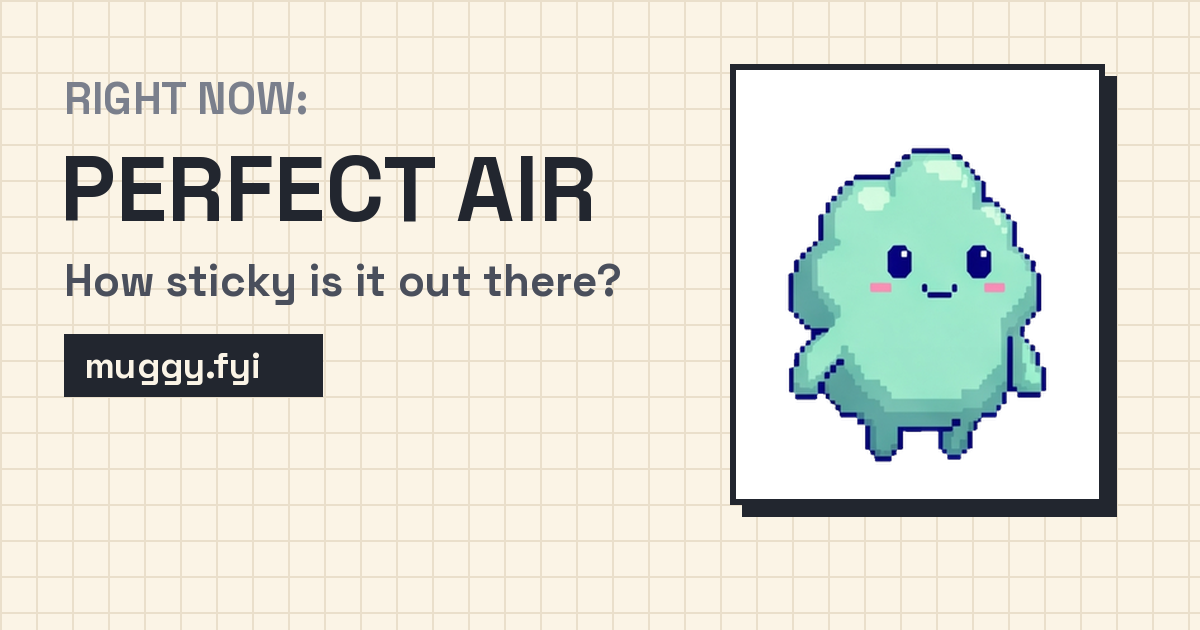
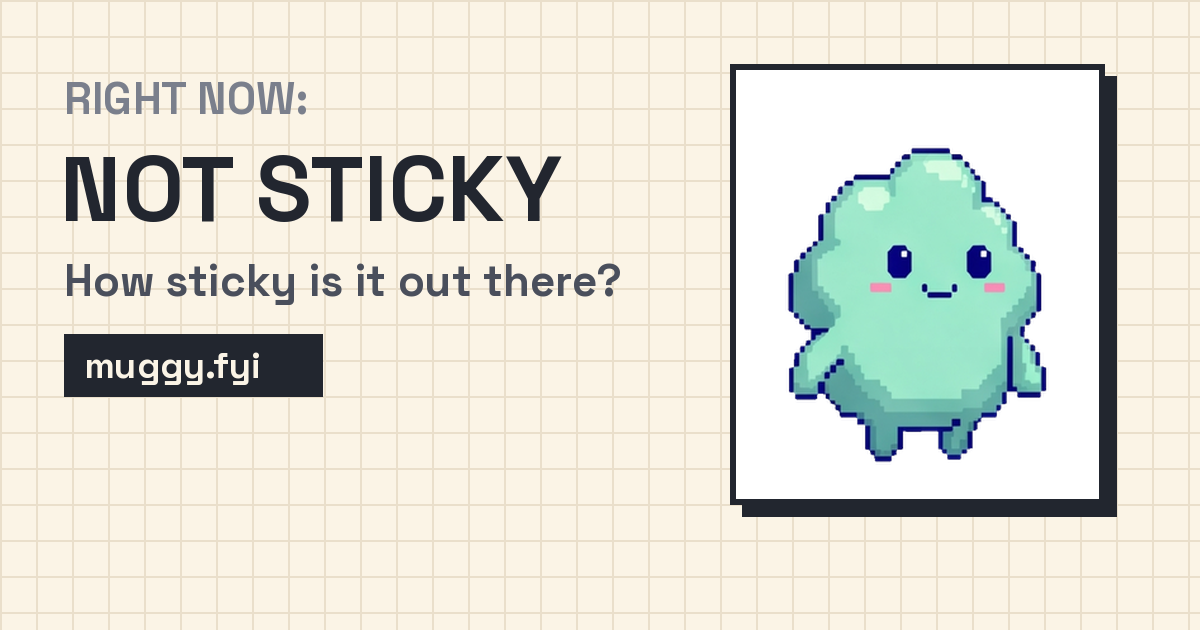
The air word agrees with the headline, in fog and in heat
The Air tile and the chip on the cloud said "dry" under "Cold and damp",
because cold air always falls in the dry dew point band. They now name
the air in words that agree with the headline: "damp" in fog, "not
sticky" for comfortable air under real heat. Colour, character and the
timelines still follow the band, and the Why sheet explains the band.

The normals card hides in fog, where a stickiness comparison says
nothing and could only name the dry band.

The dry and comfortable link banners printed "CRISP AND DRY" and
"PERFECT AIR" in every weather, including fog, desert heat and Dubai at
40 degrees. Both now read "NOT STICKY", which is true in all of them.

Changed region(s): [[0.0617, 0.2413, 0.4933, 0.3619]]

diff --git a/public/app.js b/public/app.js
@@ -3,7 +3,7 @@ import { interpolateNow } from './lib/interp.js';
 import { textureOf, TEXTURE_RANK } from './lib/texture.js';
 import { loadAt, loadSeries, readingNow, intervalInputs, isSunUp } from './lib/load.js';
 import { levelOf, alertMark, createHysteresis, roundHalfUp, LEVELS, LEVEL_MIN } from './lib/levels.js';
-import { compose, textureSentence, isDampCool } from './lib/verdict.js';
+import { compose, textureSentence, isDampCool, airWord } from './lib/verdict.js';
 import { attribute, peakAndTrend, factorSummary, REFERENCE_WIND_MS } from './lib/explain.js';
 import { findRelief, describeRelief, forecastHours } from './lib/relief.js';
 import { describe as describeNormals, barSegments, hasHourLadders } from './lib/normals.js';
@@ -98,7 +98,6 @@ function render() {
   const texture = textureOf(cur.dew_point_2m);
   app.dataset.level = texture;
   app.dataset.state = 'ready';
-  els.levelName.textContent = texture;
   els.timeChip.textContent = `now · ${cur.time.slice(11, 16)}`;
 
   // The heat-load work (current reading, 7-day series, breakdown) is measured
@@ -138,8 +137,11 @@ function render() {
   els.whyBtn.hidden = !load;
   els.temp.textContent = fmtTemp(cur.temperature_2m);
   els.hum.textContent = cur.relative_humidity_2m == null ? '–' : `${Math.round(cur.relative_humidity_2m)}%`;
-  els.comfort.textContent = texture;
-  els.comfort.classList.toggle('long', texture.length > 8);
+  // The chip and the tile name the air in words that agree with the headline.
+  const word = airWord(texture, verdict.worst, air);
+  els.levelName.textContent = word;
+  els.comfort.textContent = word;
+  els.comfort.classList.toggle('long', word.length > 8);
 
   renderHours(cur, h);
   renderWeek(cur, h);
@@ -273,9 +275,11 @@ function renderRelief() {
 // ---------- is this normal? ----------
 function renderNormals() {
   if (!normals || !data) { els.normalCard.hidden = true; return; }
+  // A stickiness comparison says nothing when it is too cool to feel sticky,
+  // and in fog it could only name the dry band beside a damp headline.
   const n = now;
-  const feelsDamp = !!(n && isDampCool(n.texture, n.verdict.worst, n.air));
-  const d = describeNormals(normals, data.current.dew_point_2m, Number(data.current.time.slice(11, 13)), { feelsDamp });
+  if (n && isDampCool(n.texture, n.verdict.worst, n.air)) { els.normalCard.hidden = true; return; }
+  const d = describeNormals(normals, data.current.dew_point_2m, Number(data.current.time.slice(11, 13)));
   if (!d) { els.normalCard.hidden = true; return; }
   els.normalVerdict.textContent = d.verdict;
   els.normalSub.textContent = d.sub;
@@ -304,6 +308,15 @@ async function loadNormals(place, superseded = () => false) {
 
 // ---------- why this verdict? ----------
 let whyOpener = null;
+
+/** Names the band, and says why the screen used a different word for it. */
+function bandNote(texture, worst, air) {
+  const word = airWord(texture, worst, air);
+  const band = `<strong>${esc(texture)}</strong>`;
+  if (word === 'damp') return `Muggy's band for it is still ${band}, because cool air holds little water even when it is close to saturated.`;
+  if (word !== texture) return `Muggy's band for it is ${band}. That describes the moisture only, and in this heat it just means sweat still dries.`;
+  return `Muggy calls this air ${band}.`;
+}
 const section = (title, body) => `<section><h3>${esc(title)}</h3>${body}</section>`;
 
 function openWhy(opener) {
@@ -313,9 +326,7 @@ function openWhy(opener) {
   const parts = [];
   parts.push(section('The verdict', `<p><strong>${esc(verdict.headline)}.</strong> ${esc(verdict.blurb)}</p>`));
   parts.push(section('The air', `<p>${esc(textureSentence(texture, isDay ? 'day' : 'night', verdict.worst, n.air))}</p>
-    <p class="small">${isDampCool(texture, verdict.worst, n.air)
-    ? `Muggy's band for it is still <strong>${esc(texture)}</strong>, because cool air holds little water even when it is close to saturated.`
-    : `Muggy calls this air <strong>${esc(texture)}</strong>.`} That comes from the dew point, which is how much water the air already holds. It decides how well sweat can dry.</p>`));
+    <p class="small">${bandNote(texture, verdict.worst, n.air)} That comes from the dew point, which is how much water the air already holds. It decides how well sweat can dry.</p>`));
 
   if (load && verdict.worst) {
     if (verdict.worst !== 'none') {

diff --git a/public/lib/normals.js b/public/lib/normals.js
@@ -49,12 +49,10 @@ export const VERDICTS = [
 ];
 
 /**
- * describe(normals, dewPointC, localHour, { feelsDamp }) →
+ * describe(normals, dewPointC, localHour) →
  * { pct, verdict, sub, note, mix, band, usualBand } or null when normals are unusable.
- * feelsDamp: the headline calls cool, near-saturated air damp; a low dew point
- * then needs saying in words, or "drier than usual" reads as a contradiction.
  */
-export function describe(normals, dewPointC, localHour, { feelsDamp = false } = {}) {
+export function describe(normals, dewPointC, localHour) {
   if (!hasHourLadders(normals) || dewPointC == null) return null;
   const hour = normals.hours[localHour];
   const pct = percentileOf(hour.q, dewPointC);
@@ -77,9 +75,7 @@ export function describe(normals, dewPointC, localHour, { feelsDamp = false } = 
   const share = hour.mix[band] || 0;
   const likeThis = `Air this ${pct >= 50 ? (sticky ? 'sticky' : 'damp') : 'dry'}`;
   let note;
-  // Only when the verdict itself says drier; "About normal" needs no excuse.
-  if (feelsDamp && pct <= 30) note = 'The air holds less water than usual, even though it feels damp.';
-  else if (!record && share === 0) note = `${likeThis} has not been recorded here at this time of year.`;
+  if (!record && share === 0) note = `${likeThis} has not been recorded here at this time of year.`;
   else if (!record && share < 0.05) note = `${likeThis} is rare here at this time of year.`;
   else if (band !== usualBand) note = `Usually it is ${usualBand} at this time of day.`;
   else if (pct >= 65) note = `Still the usual ${band} air, at the ${wetter} end of it.`;

diff --git a/test/verdict.test.js b/test/verdict.test.js
@@ -1,7 +1,7 @@
 // Composition scenarios from the comfort-verdict spec.
 import { test } from 'node:test';
 import assert from 'node:assert/strict';
-import { compose, textureSentence } from '../public/lib/verdict.js';
+import { compose, textureSentence, airWord } from '../public/lib/verdict.js';
 import { classesIn } from '../public/lib/lexicon.js';
 
 const day = { isDay: true, sunKnown: true };
@@ -147,4 +147,20 @@ test('the headline and the air sentence always agree, with or without a load', (
       assert.match(v.blurb, /damp/i);
     }
   }
+});
+
+test('the air word never contradicts the headline', () => {
+  // Fog: the band is dry, the air is damp.
+  assert.equal(airWord('dry', 'none', { t: 6, rh: 95 }), 'damp');
+  assert.equal(airWord('comfortable', 'none', { t: 15, rh: 88 }), 'damp');
+  // Crisp cold air keeps its band name.
+  assert.equal(airWord('dry', 'none', { t: 6, rh: 60 }), 'dry');
+  // Nothing is comfortable in real heat.
+  for (const level of ['noticeable', 'realWork', 'hard', 'dangerous']) assert.equal(airWord('comfortable', level, { t: 38, rh: 20 }), 'not sticky');
+  assert.equal(airWord('comfortable', 'easy', { t: 24, rh: 60 }), 'comfortable');
+  // Hot dry air is still dry; sticky bands keep their names.
+  assert.equal(airWord('dry', 'hard', { t: 45, rh: 8 }), 'dry');
+  for (const band of ['humid', 'muggy', 'oppressive', 'miserable']) assert.equal(airWord(band, 'hard', { t: 32, rh: 70 }), band);
+  // No load, no temperature: the band.
+  assert.equal(airWord('comfortable', null, null), 'comfortable');
 });

diff --git a/public/about.html b/public/about.html
@@ -90,7 +90,7 @@
       <h2>The six air bands</h2>
       <p>Your body cools itself by sweating, and sweat only cools you if it can evaporate. The <strong>dew point</strong> measures how much water the air already carries. It is the temperature the air would have to cool to before that water starts condensing. The higher it is, the worse sweat works. Relative humidity can't tell you this on its own. Fog on a cold morning is 100% humidity, and nobody calls fog muggy.</p>
       <p>Muggy sorts the dew point into the bands <a href="https://weatherspark.com" rel="noopener">WeatherSpark</a> made familiar, converted from Fahrenheit. You see the band, never the number.</p>
-      <p>Sweat only matters once it's warm. Below 18° Muggy says whether the air feels damp or dry instead, because a foggy morning and a crisp one land in the same band. Cold air holds so little water that its dew point is always low.</p>
+      <p>Sweat only matters once it's warm. Below 18° Muggy says whether the air feels damp or dry instead, because a foggy morning and a crisp one land in the same band. Cold air holds so little water that its dew point is always low. So in fog the Air tile says damp, even though the band underneath is dry. In real heat, comfortable air shows as not sticky, since nothing is comfortable at 35°.</p>
       <div class="scroll">
         <table class="bands">
           <tr><th>Air</th><th>Dew point</th><th>What the moisture does</th></tr>

diff --git a/public/lib/verdict.js b/public/lib/verdict.js
@@ -26,6 +26,19 @@ export function isDampCool(texture, worst, air) {
 }
 
 /**
+ * The word the screen shows for the air: the band's name, unless that name
+ * would contradict the headline. Cool air near saturation is "damp", whatever
+ * its band. Comfortable air under a real heat load is "not sticky", because
+ * nothing is comfortable at 35 °C. The band itself, and everything drawn from
+ * it (colour, character, timelines), stays as it is.
+ */
+export function airWord(texture, worst, air = null) {
+  if (isDampCool(texture, worst, air)) return 'damp';
+  if (texture === 'comfortable' && worst != null && rank(worst) >= rank('noticeable')) return 'not sticky';
+  return texture;
+}
+
+/**
  * The texture sentence for this moment. Shared by the verdict and the Why
  * sheet, so the two can never describe the air differently.
  */

diff --git a/test/normals.test.js b/test/normals.test.js
@@ -68,11 +68,3 @@ test('bar segments are in band order', () => {
   assert.deepEqual(barSegments({ muggy: 0.3, comfortable: 0.7 }).map((s) => s.band), ['comfortable', 'muggy']);
 });
 
-test('cool air that feels damp but holds little water says both', () => {
-  const winter = { hours: Array.from({ length: 24 }, () => ({ q: Array.from({ length: 101 }, (_, i) => -5 + i * 0.15), mix: { dry: 1 }, n: 700 })) };
-  const d = describe(winter, -3, 22, { feelsDamp: true });
-  assert.equal(d.verdict, 'Drier than usual');
-  assert.equal(d.note, 'The air holds less water than usual, even though it feels damp.');
-  // About normal needs no explanation.
-  assert.notEqual(describe(winter, 0, 22, { feelsDamp: true }).note, d.note);
-});

diff --git a/src/index.js b/src/index.js
@@ -327,7 +327,7 @@ async function htmlFor(request, env, ctx, slug) {
           og = {
             title: `${p.verdict.headline} in ${place.name} right now`,
             desc: `${[p.cur.temperature_2m != null ? `${Math.round(p.cur.temperature_2m)}°C` : null, p.cur.relative_humidity_2m != null ? `${Math.round(p.cur.relative_humidity_2m)}% humidity` : null].filter(Boolean).join(', ')}. ${p.verdict.blurb}`,
-            image: `https://${CANONICAL_HOST}/og/${p.texture}.png?v=2`,
+            image: `https://${CANONICAL_HOST}/og/${p.texture}.png?v=3`,
             url: `https://${CANONICAL_HOST}/${slug}`,
           };
         }

diff --git a/tools/make-og.py b/tools/make-og.py
@@ -14,8 +14,12 @@ TINT = {
     'dry': (220, 227, 236), 'comfortable': (205, 232, 184), 'humid': (245, 239, 168),
     'muggy': (246, 198, 168), 'oppressive': (247, 154, 192), 'miserable': (240, 117, 91),
 }
+# One banner per band, so its word has to be true whatever the heat. "Crisp
+# and dry" was printed over foggy mornings and 45 °C deserts alike, and
+# "Perfect air" over Dubai at 40 °C. Dry and comfortable air are both, at
+# least, not sticky.
 WORD = {
-    'dry': 'CRISP AND DRY', 'comfortable': 'PERFECT AIR', 'humid': 'A LITTLE STICKY',
+    'dry': 'NOT STICKY', 'comfortable': 'NOT STICKY', 'humid': 'A LITTLE STICKY',
     'muggy': "IT'S MUGGY OUT", 'oppressive': 'OPPRESSIVE', 'miserable': 'MISERABLE',
 }
 LEVELS = list(TINT)

diff --git a/openspec/changes/one-verdict-comfort-hierarchy/specs/air-texture/spec.md b/openspec/changes/one-verdict-comfort-hierarchy/specs/air-texture/spec.md
@@ -24,14 +24,26 @@ Texture wording (texture headlines, texture sentences in the blurb, band descrip
 - **THEN** none contains activity-advice terms, apart from hydration terms in the dry band
 
 ### Requirement: Air tile
-The stat tile that shows the texture band SHALL be labelled "Air" and show the band name.
+The stat tile that shows the texture band SHALL be labelled "Air". The tile and the chip on the character SHALL show the band name, except where the name would contradict the headline: cool air near saturation (below 18 °C, 80 % humidity or more, no heat load, dry or comfortable band) SHALL read "damp", and comfortable air at Noticeable or above SHALL read "not sticky". Colour, character and timelines SHALL still follow the band.
+
+#### Scenario: Fog
+- **WHEN** it is 5 °C at 95 % humidity and the band is dry
+- **THEN** the headline reads "Cold and damp", the tile and chip read "damp", and the tint stays the dry band's
+
+#### Scenario: Real heat in air that is not humid
+- **WHEN** the band is comfortable and the load is Hard
+- **THEN** the tile and chip read "not sticky"
 
 #### Scenario: Tile label
 - **WHEN** the main screen renders
 - **THEN** the three stat tiles read Temp, Humidity and Air
 
 ### Requirement: Character, colour and banner follow texture
-The cloud character's sprite, the screen's colour tint, the level chip and the link-preview banner image SHALL be chosen by texture band.
+The cloud character's sprite, the screen's colour tint, the level chip's colour and the link-preview banner image SHALL be chosen by texture band. Because one banner serves a band in every weather, its word SHALL be true whatever the heat and humidity: the dry and comfortable banners read "NOT STICKY".
+
+#### Scenario: Banner in fog and in desert heat
+- **WHEN** the link preview title is "Cool and damp" or "Tiring, dry heat"
+- **THEN** the banner does not say "dry", "crisp" or "perfect"
 
 #### Scenario: Sprite by band
 - **WHEN** texture is oppressive and the load level is Easy

diff --git a/openspec/changes/one-verdict-comfort-hierarchy/tasks.md b/openspec/changes/one-verdict-comfort-hierarchy/tasks.md
@@ -123,3 +123,4 @@
   - 2026-09-22: every text branch enumerated (186 reachable verdict combinations, trend, cause, relief and normals templates), plus 55 real cities stepped through 22 hours in the real app (880 snapshots, Why sheet included).
   - Fixed: cool damp air called "Crisp and dry" or "Perfect air" (41% of snapshots) now reads "Cool and damp" or "Cold and damp"; hot dry air no longer "fresh"; "Still air makes it makes it worse"; relief "as good as it gets" on already fine air (card now hidden) and "Right now" for no relief; one-hour blips, open-ended windows, sunset credited at 06:00, and windows cut short by a wobble in the air; trend lines that contradicted each other; the normals card repeating its number flipped, calling dry winter air "stickier", and "Humid air is rare here" in Manaus; equal shade and sun boxes; a duplicate "Why this verdict?" control; "tonight" twice in one blurb; "shady" at night and "black globe" jargon in the Why sheet.
   - `npm test` 153/153; main screen 146/146; About 7/7. The performance budget fails at 56–115 ms on this machine for both this change and the previous commit, so it is an environment regression, not this change.
+  - Follow-up (2026-09-22): the Air tile and the chip on the character name the air in words that agree with the headline, "damp" in fog and "not sticky" for comfortable air under real heat, while colour and timelines still follow the band. The normals card hides in fog. The dry and comfortable link banners now read "NOT STICKY": "CRISP AND DRY" had been printed under "Cool and damp" and "Tiring, dry heat" titles, and "PERFECT AIR" over Dubai at 40 °C. `npm test` 153/153; main screen 190/190 with two new fixtures, foggy-winter and hot-not-sticky; About 7/7.

diff --git a/openspec/changes/one-verdict-comfort-hierarchy/specs/normals-comparison/spec.md b/openspec/changes/one-verdict-comfort-hierarchy/specs/normals-comparison/spec.md
@@ -21,7 +21,7 @@ Percentages SHALL name the part of the day the comparison covers: morning (05:00
 ### Requirement: Verdict wording and extremes
 The card verdict SHALL be "Way stickier than usual" at or above the 90th percentile, "Stickier than usual" at 70–89, "About normal" at 31–69, "Drier than usual" at 11–30 and "Way drier than usual" at 10 or below. Dry and comfortable air is not sticky at any percentile, so for those bands "stickier" SHALL read "damper". At or above the 99th percentile the statistic SHALL name the stickiest (or dampest) such hours on record, and at or below the 1st the driest.
 
-The body SHALL describe a rare band by how it feels ("Air this dry is rare here at this time of year"), never by its band name, which reads as a claim about the place. When the headline calls cool air damp and the verdict is drier than usual, the body SHALL say the air holds less water than usual even though it feels damp.
+The body SHALL describe a rare band by how it feels ("Air this dry is rare here at this time of year"), never by its band name, which reads as a claim about the place. When the headline calls cool air damp, the card SHALL be hidden: a stickiness comparison says nothing when it is too cool to feel sticky, and it could only name the dry band beside a damp headline.
 
 #### Scenario: Record-level stickiness
 - **WHEN** the current dew point exceeds every value in the comparison set
